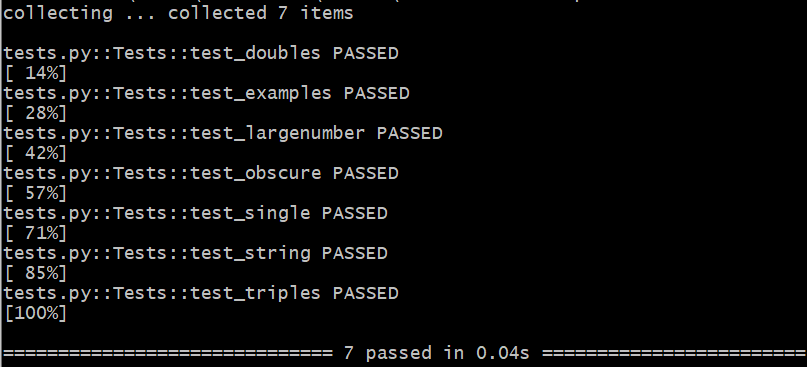
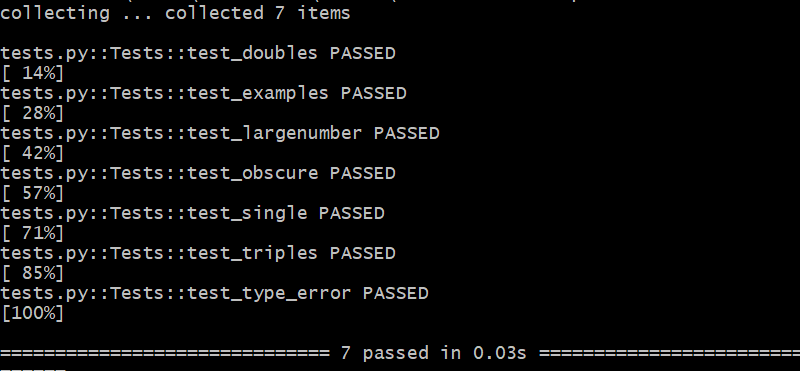
tests updated to add more type error options

diff --git a/tests.py b/tests.py
@@ -30,18 +30,23 @@ class Tests(unittest.TestCase):
 		self.assertEqual(raindrops(9366046200), "PlingPlangPlong")
 		self.assertEqual(raindrops(1016850019), "1016850019")
 
-	# Test for more obscure outputs
+	# Test for more obscure inputs
 	def test_obscure(self):
 		self.assertEqual(raindrops(-5), "Plang")
 		self.assertEqual(raindrops(-34.4594), "-34.4594")
 
-	# Test for string passing
-	def test_string(self):
+	# Test for TypeErrors
+	def test_type_error(self):
+		# Test for string passing
 		with self.assertRaises(TypeError):
 			raindrops("Pling")
-
+		# Test for list passing
+		with self.assertRaises(TypeError):
+			raindrops([2, 3, 5, 234])
+		# Test for tuple passing
+		with self.assertRaises(TypeError):
+			raindrops((3, 5))
 
 # Run unit tests if test file ran
 if __name__ == "__main__":
 	unittest.main()
-

diff --git a/README.md b/README.md
@@ -68,10 +68,10 @@ python tests.py
 - This was done using pythons assertEqual, and assertRaises functions.
 - The tests were made to account for a range of possibilities :
     + The examples given in the Documentation
-    + Single, Double, and triple word concatinations
+    + Single, Double and triple word concatinations
     + Large numbers
     + Negative numbers
     + Floats
-    + Strings (tested expecting a type error)
+    + Strings, lists and tuples (tested expecting a type error)
 
 - The development of the code was done in a TDD manner, Writing failing tests to go back and modify the code, so that it was fully functional for as many inputs as possible.
